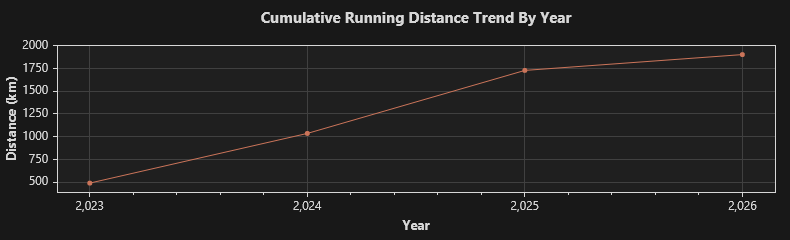
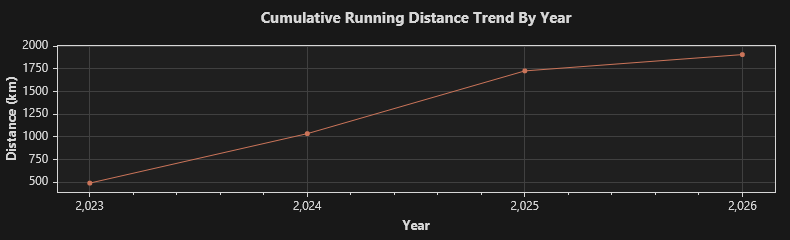
2026/4/20 跑步 6.08 公里

diff --git a/trend.md b/trend.md
@@ -1,4 +1,4 @@
-### Total: 325 days, 1902.54 km.
+### Total: 326 days, 1908.62 km.
 
 
 ![Monthly](https://github.com/prime167/MyRunningLog/blob/main/data/CumulativeTrendByMonth.png)
